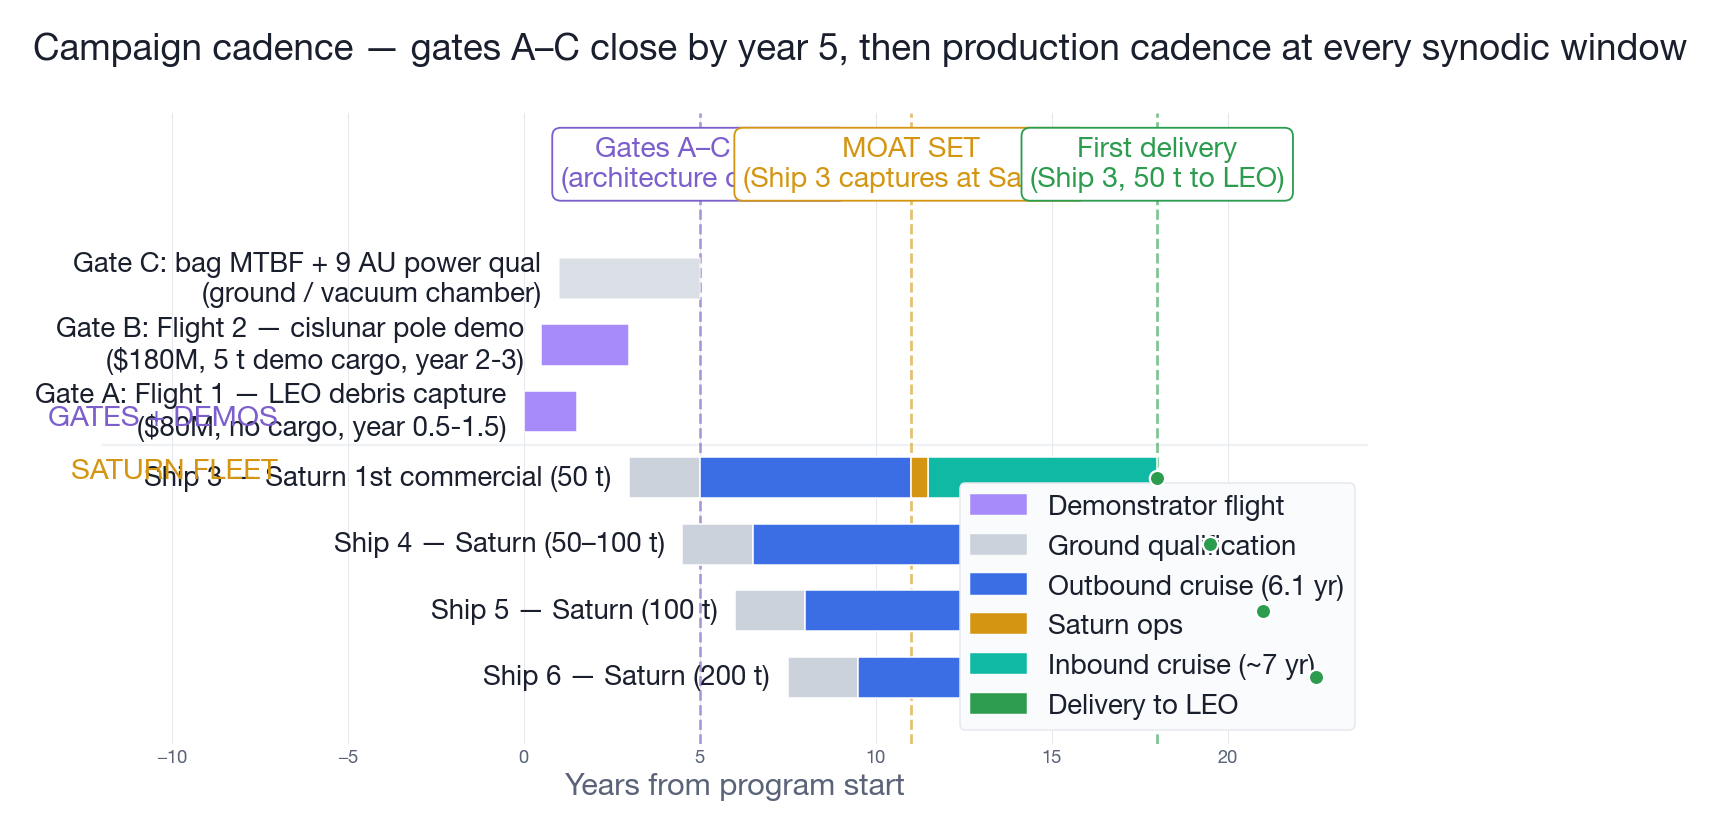
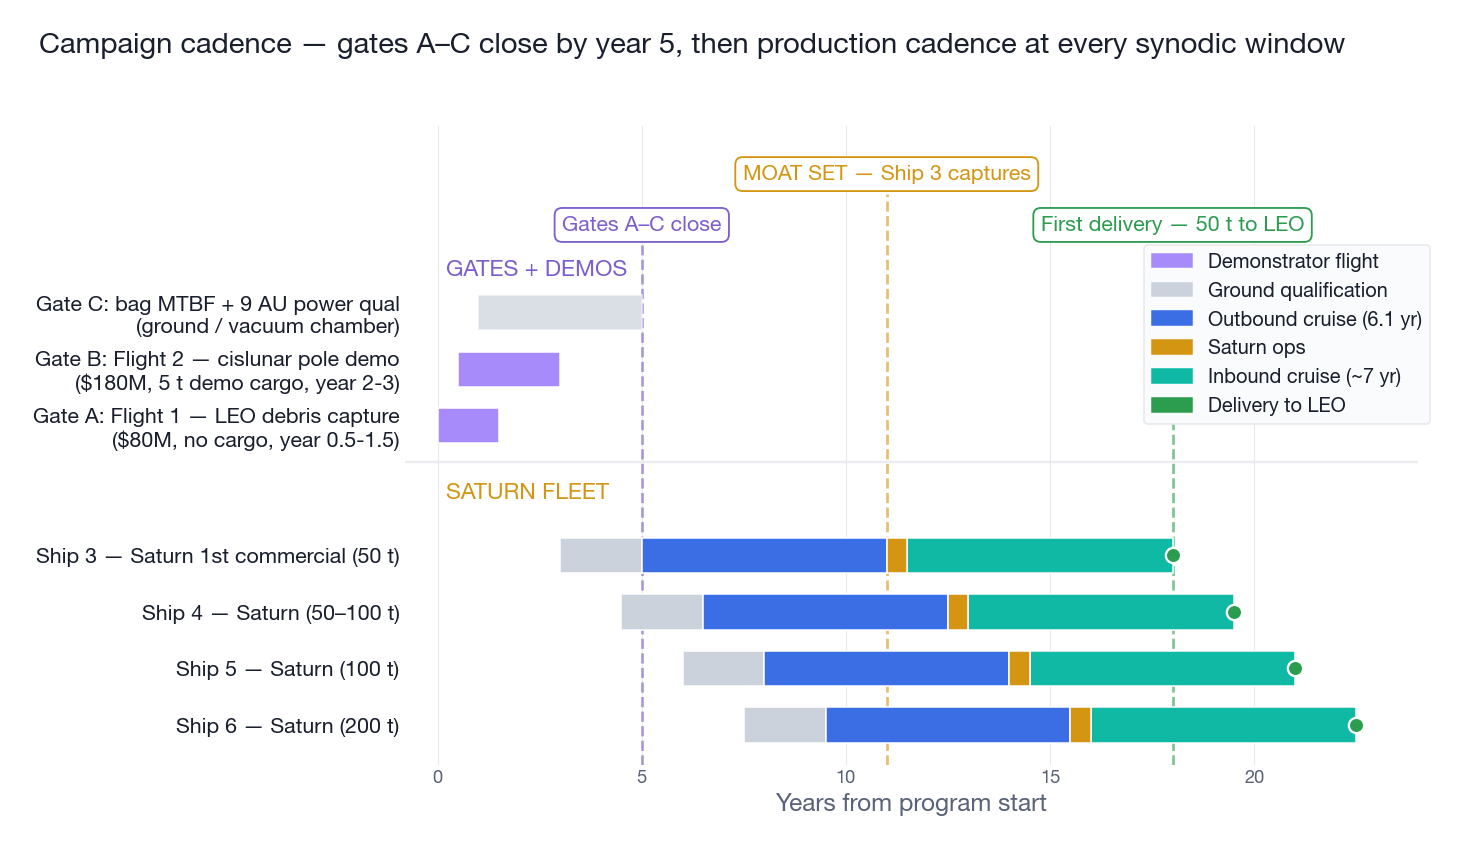
fix: campaign-gantt layout — no more overlapping text; regenerated from reworked plot function

diff --git a/generate_conops_plots.py b/generate_conops_plots.py
@@ -2261,9 +2261,14 @@ def plot_comparable_landscape():
 # ============================================================================
 def plot_campaign_gantt():
     """Horizontal Gantt of the campaign: demonstrators, gates, Saturn fleet.
-    Vertical milestone lines mark moat-set, first delivery, etc."""
+    Vertical milestone lines mark moat-set, first delivery, etc.
+
+    Layout rules (2026-07 rework after owner flagged text collisions):
+    row labels are y-tick labels (no dead left zone), section headers get
+    their own empty rows, milestone boxes are staggered on two levels, and
+    the legend sits in the empty upper-right region above the gate bars."""
     style_dashboard()
-    fig, ax = plt.subplots(figsize=(13, 7.2))
+    fig, ax = plt.subplots(figsize=(13, 7.4))
 
     PHASE_DEMO    = '#a78bfa'
     PHASE_GROUND  = '#cbd2dc'
@@ -2273,23 +2278,17 @@ def plot_campaign_gantt():
     PHASE_IN      = DASH_TEAL
     PHASE_DELIVER = DASH_GREEN
 
-    # Track entries: (label, start, end, color, alpha)
-    # Demonstrator flights
-    rows = []
+    # Gates section (top-down): (label, start, end, color, alpha)
+    gates = [
+        ('Gate C: bag MTBF + 9 AU power qual\n(ground / vacuum chamber)',
+         1.0, 5.0, PHASE_GROUND, 0.7),
+        ('Gate B: Flight 2 — cislunar pole demo\n($180M, 5 t demo cargo, year 2-3)',
+         0.5, 3.0, PHASE_DEMO, 1.0),
+        ('Gate A: Flight 1 — LEO debris capture\n($80M, no cargo, year 0.5-1.5)',
+         0.0, 1.5, PHASE_DEMO, 1.0),
+    ]
 
-    # Gate C ground qualification (years 1-5)
-    rows.append(('Gate C: bag MTBF + 9 AU power qual\n(ground / vacuum chamber)',
-                 1.0, 5.0, PHASE_GROUND, 0.7, 'gate'))
-
-    # Flight 2 — cislunar pole demo
-    rows.append(('Gate B: Flight 2 — cislunar pole demo\n($180M, 5 t demo cargo, year 2-3)',
-                 0.5, 3.0, PHASE_DEMO, 1.0, 'flight'))
-
-    # Flight 1 — LEO debris demo
-    rows.append(('Gate A: Flight 1 — LEO debris capture\n($80M, no cargo, year 0.5-1.5)',
-                 0.0, 1.5, PHASE_DEMO, 1.0, 'flight'))
-
-    # Saturn ships — each is build then full mission
+    # Saturn ships (top-down): (label, build, launch, capture, depart, deliver)
     saturn_ships = [
         ('Ship 3 — Saturn 1st commercial (50 t)',  3.0, 5.0, 11.0, 11.5, 18.0),
         ('Ship 4 — Saturn (50–100 t)',             4.5, 6.5, 12.5, 13.0, 19.5),
@@ -2297,51 +2296,55 @@ def plot_campaign_gantt():
         ('Ship 6 — Saturn (200 t)',                7.5, 9.5, 15.5, 16.0, 22.5),
     ]
 
-    # Plot demonstrators / ground qual first (3 rows, top to bottom)
-    for i, (label, start, end, color, alpha, kind) in enumerate(rows):
-        y = len(rows) + len(saturn_ships) - i - 1
+    # y layout, bottom-up: ships 0..3, fleet header 4.1, divider 4.65,
+    # gates 5.3/6.3/7.3, gates header 8.05, milestone band 8.85-10.1
+    gate_ys = [7.3, 6.3, 5.3]
+    ship_ys = [3, 2, 1, 0]
+    ytick_pos, ytick_lab = [], []
+
+    for (label, start, end, color, alpha), y in zip(gates, gate_ys):
         ax.barh(y, end - start, left=start, color=color, edgecolor='white',
                 height=0.62, zorder=3, alpha=alpha)
-        ax.text(start - 0.5, y, label, ha='right', va='center',
-                fontsize=18, color=DASH_FG, fontweight='bold' if kind == 'flight' else 'normal')
+        ytick_pos.append(y)
+        ytick_lab.append(label)
 
-    # Plot Saturn ships
-    for i, (label, build, launch, capture, depart, deliver) in enumerate(saturn_ships):
-        y = len(saturn_ships) - i - 1
-        # Build
+    for (label, build, launch, capture, depart, deliver), y in zip(saturn_ships, ship_ys):
         ax.barh(y, launch - build, left=build, color=PHASE_BUILD, edgecolor='white', height=0.62, zorder=3)
-        # Outbound
         ax.barh(y, capture - launch, left=launch, color=PHASE_OUT, edgecolor='white', height=0.62, zorder=3)
-        # Saturn ops
         ax.barh(y, depart - capture, left=capture, color=PHASE_SATURN, edgecolor='white', height=0.62, zorder=4)
-        # Inbound
         ax.barh(y, deliver - depart, left=depart, color=PHASE_IN, edgecolor='white', height=0.62, zorder=3)
-        # Delivery marker
         ax.plot(deliver, y, 'o', markersize=10, color=PHASE_DELIVER,
                 markerfacecolor=PHASE_DELIVER, markeredgecolor='white', markeredgewidth=1.5, zorder=6)
-        ax.text(build - 0.5, y, label, ha='right', va='center', fontsize=18, color=DASH_FG, fontweight='bold')
+        ytick_pos.append(y)
+        ytick_lab.append(label)
 
-    # Section divider
-    divider_y = len(saturn_ships) - 0.5
-    ax.axhline(divider_y, color=DASH_GRID, lw=1.5, alpha=0.6, zorder=2)
-    ax.text(-7, divider_y - 0.4, 'SATURN FLEET', ha='right', va='center',
-            fontsize=19, fontweight='bold', color=DASH_AMBER)
-    ax.text(-7, divider_y + 0.4, 'GATES + DEMOS', ha='right', va='center',
-            fontsize=19, fontweight='bold', color='#7c5fcc')
+    ax.set_yticks(ytick_pos, ytick_lab)
+    ax.tick_params(axis='y', labelsize=14, length=0)
+    for tl in ax.get_yticklabels():
+        tl.set_color(DASH_FG)
 
-    # Critical milestones
+    # Section headers in their own empty rows; divider between sections
+    ax.axhline(4.65, color=DASH_GRID, lw=1.5, alpha=0.8, zorder=2)
+    ax.text(0.2, 8.05, 'GATES + DEMOS', ha='left', va='center',
+            fontsize=15, fontweight='bold', color='#7c5fcc')
+    ax.text(0.2, 4.1, 'SATURN FLEET', ha='left', va='center',
+            fontsize=15, fontweight='bold', color=DASH_AMBER)
+
+    # Critical milestones — single-line labels, staggered on two levels
     milestones = [
-        (5.0, 'Gates A–C close\n(architecture qualified)', '#7c5fcc'),
-        (11.0, 'MOAT SET\n(Ship 3 captures at Saturn)', DASH_AMBER),
-        (18.0, 'First delivery\n(Ship 3, 50 t to LEO)', DASH_GREEN),
+        (5.0, 'Gates A–C close', '#7c5fcc', 8.85),
+        (11.0, 'MOAT SET — Ship 3 captures', DASH_AMBER, 9.75),
+        (18.0, 'First delivery — 50 t to LEO', DASH_GREEN, 8.85),
     ]
-    for x, label, color in milestones:
-        ax.axvline(x, color=color, lw=1.8, ls='--', alpha=0.6, zorder=2)
-        ax.text(x, len(rows) + len(saturn_ships) + 0.3, label,
-                ha='center', va='bottom', fontsize=18.5, fontweight='bold', color=color,
-                bbox=dict(boxstyle='round,pad=0.3', facecolor='white', edgecolor=color, lw=1.2))
+    for x, label, color, ylab in milestones:
+        ax.axvline(x, ymax=(ylab - 0.35 + 0.7) / (10.6 + 0.7), color=color,
+                   lw=1.8, ls='--', alpha=0.6, zorder=2)
+        ax.text(x, ylab, label, ha='center', va='center', fontsize=14,
+                fontweight='bold', color=color,
+                bbox=dict(boxstyle='round,pad=0.35', facecolor='white',
+                          edgecolor=color, lw=1.2))
 
-    # Phase legend
+    # Phase legend in the empty region right of the gate bars
     legend_handles = [
         mpatches.Patch(color=PHASE_DEMO, label='Demonstrator flight'),
         mpatches.Patch(color=PHASE_GROUND, label='Ground qualification'),
@@ -2350,21 +2353,22 @@ def plot_campaign_gantt():
         mpatches.Patch(color=PHASE_IN, label='Inbound cruise (~7 yr)'),
         mpatches.Patch(color=PHASE_DELIVER, label='Delivery to LEO'),
     ]
-    ax.legend(handles=legend_handles, loc='lower right', fontsize=18, frameon=True, framealpha=1.0)
+    ax.legend(handles=legend_handles, loc='upper left', bbox_to_anchor=(0.72, 0.83),
+              fontsize=13, frameon=True, framealpha=1.0)
 
-    ax.set_xlim(-12, 24)
-    ax.set_ylim(-1, len(rows) + len(saturn_ships) + 1.5)
-    ax.set_xlabel('Years from program start', color=DASH_MUTED, fontsize=20)
-    ax.set_yticks([])
+    ax.set_xlim(-0.8, 24)
+    ax.set_ylim(-0.7, 10.6)
+    ax.set_xlabel('Years from program start', color=DASH_MUTED, fontsize=16)
+    ax.set_xticks([0, 5, 10, 15, 20])
     ax.grid(axis='x', alpha=1.0, zorder=0)
     ax.set_axisbelow(True)
     for spine in ['left', 'bottom']:
         ax.spines[spine].set_visible(False)
 
     fig.suptitle('Campaign cadence — gates A–C close by year 5, then production cadence at every synodic window',
-                 fontsize=24, fontweight='bold', x=0.05, ha='left', y=1.0, color=DASH_FG)
+                 fontsize=19, fontweight='bold', x=0.02, ha='left', y=0.99, color=DASH_FG)
 
-    plt.tight_layout()
+    plt.tight_layout(rect=[0, 0, 1, 0.965])
     out = os.path.join(OUT_DIR, '16_campaign_gantt.png')
     plt.savefig(out)
     plt.close()